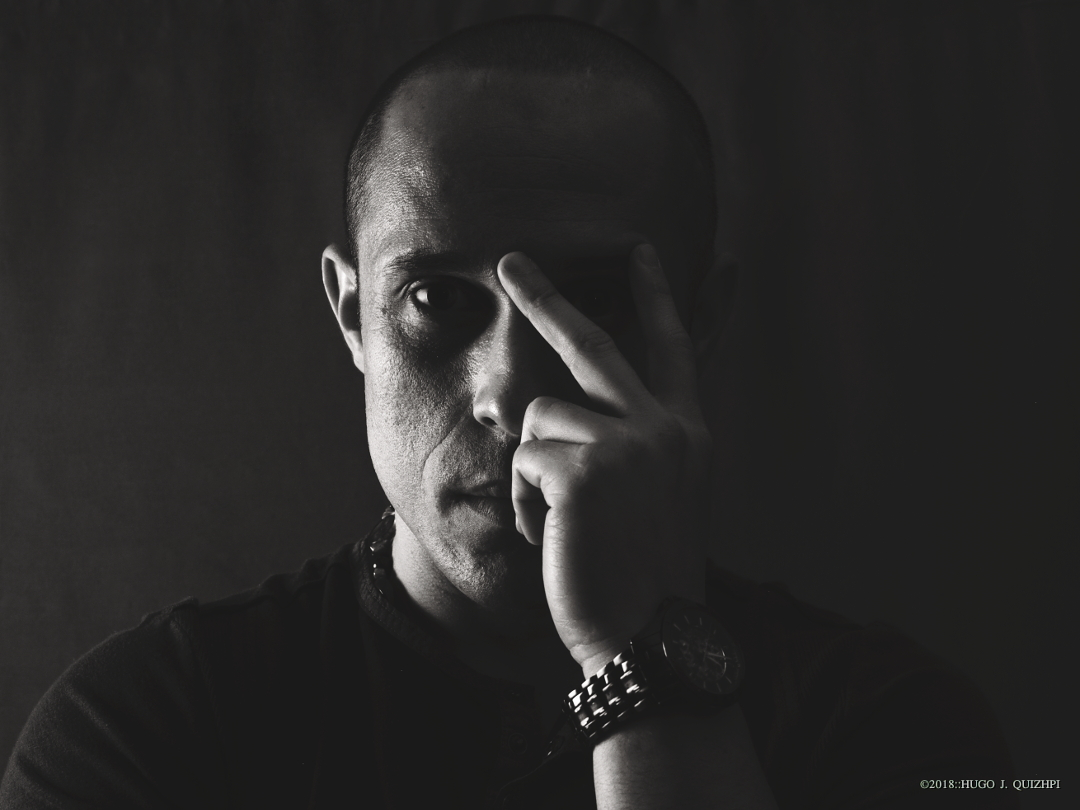
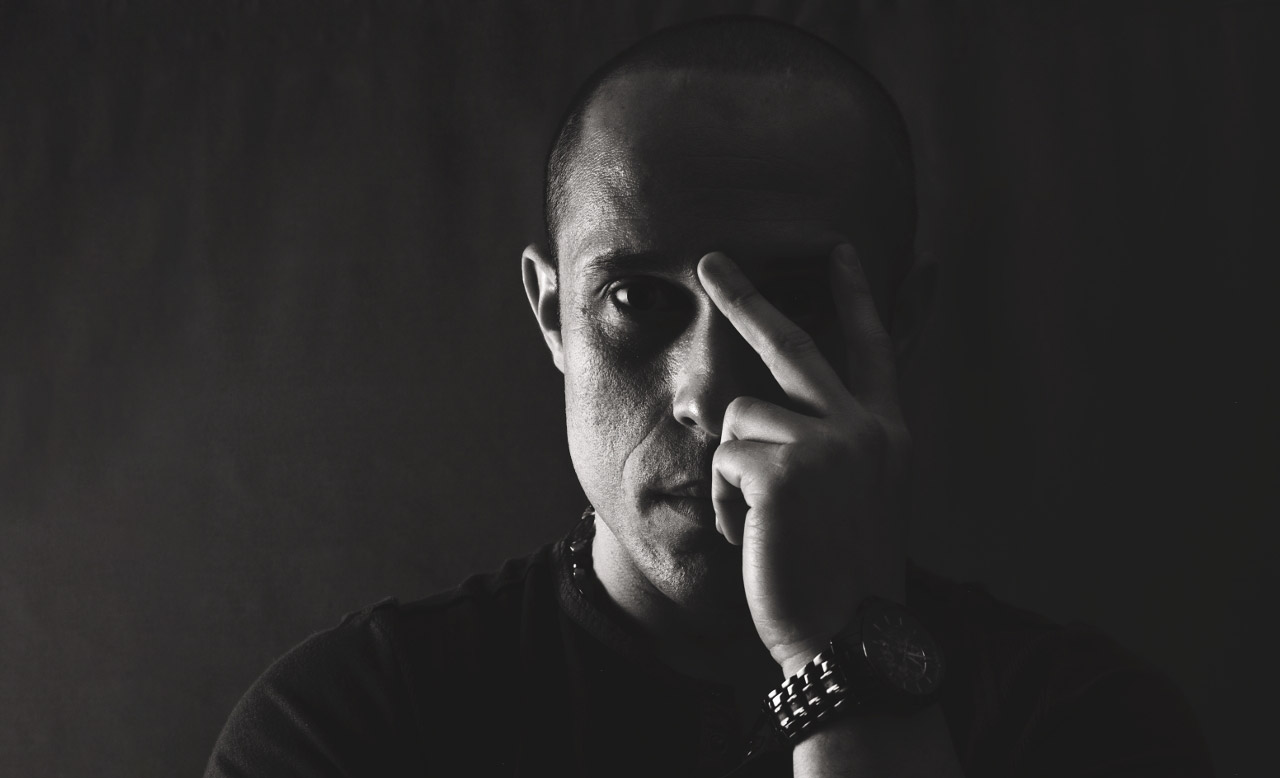
Replace tagline image for larger size

diff --git a/client/src/components/TaglineImage.js b/client/src/components/TaglineImage.js
@@ -6,7 +6,7 @@ class TaglineImage extends Component {
 	render() {
 		return (
 			<div className="tagline-image">
-				<img src="/images/tagline.JPG" className="img-fluid float-right" alt="Jorge Alvarado" />
+				<img src="/images/tagline.jpg" className="img-fluid float-right" alt="Jorge Alvarado" />
 				<TaglineDescription />
 			</div>
 		);

diff --git a/client/src/App.css b/client/src/App.css
@@ -8,6 +8,7 @@
 	color: white;
 	text-align: center;
 	display: flex;
+	flex-wrap: wrap;
 	width: 100%;
 }
 
@@ -45,10 +46,11 @@
 }
 
 .tagline-image {
-	background-color: blue;
+	background-color: #2c2b2a;
 	color: white;
 	overflow: hidden;
 	height: 780px;
+	margin-left: 250px;
 }
 
 .content-list {
